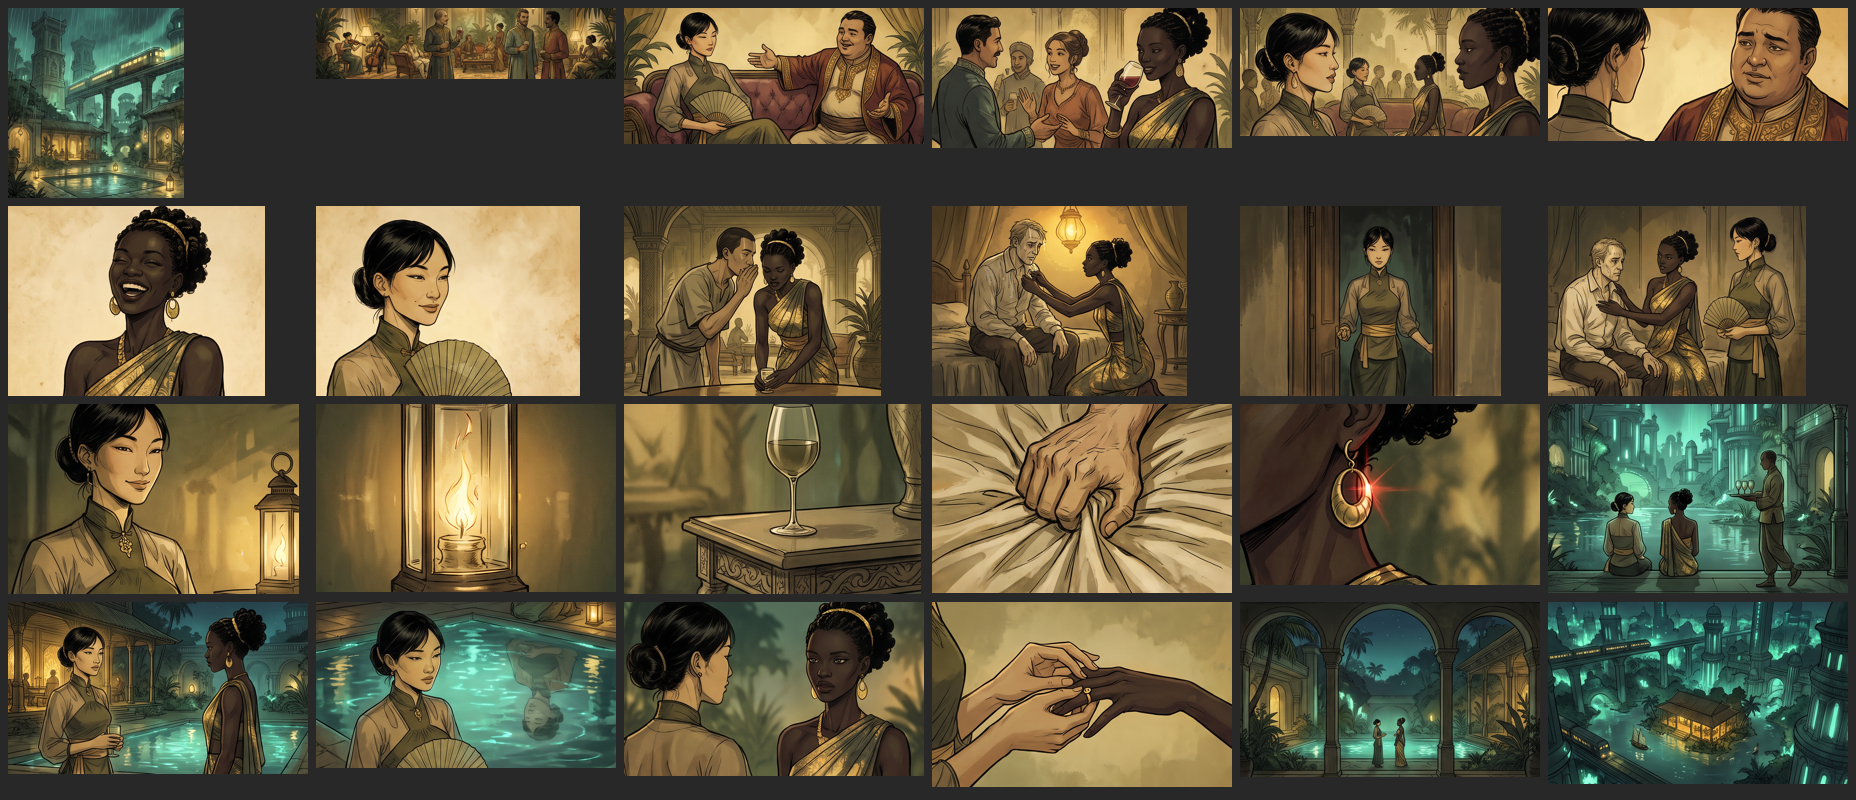
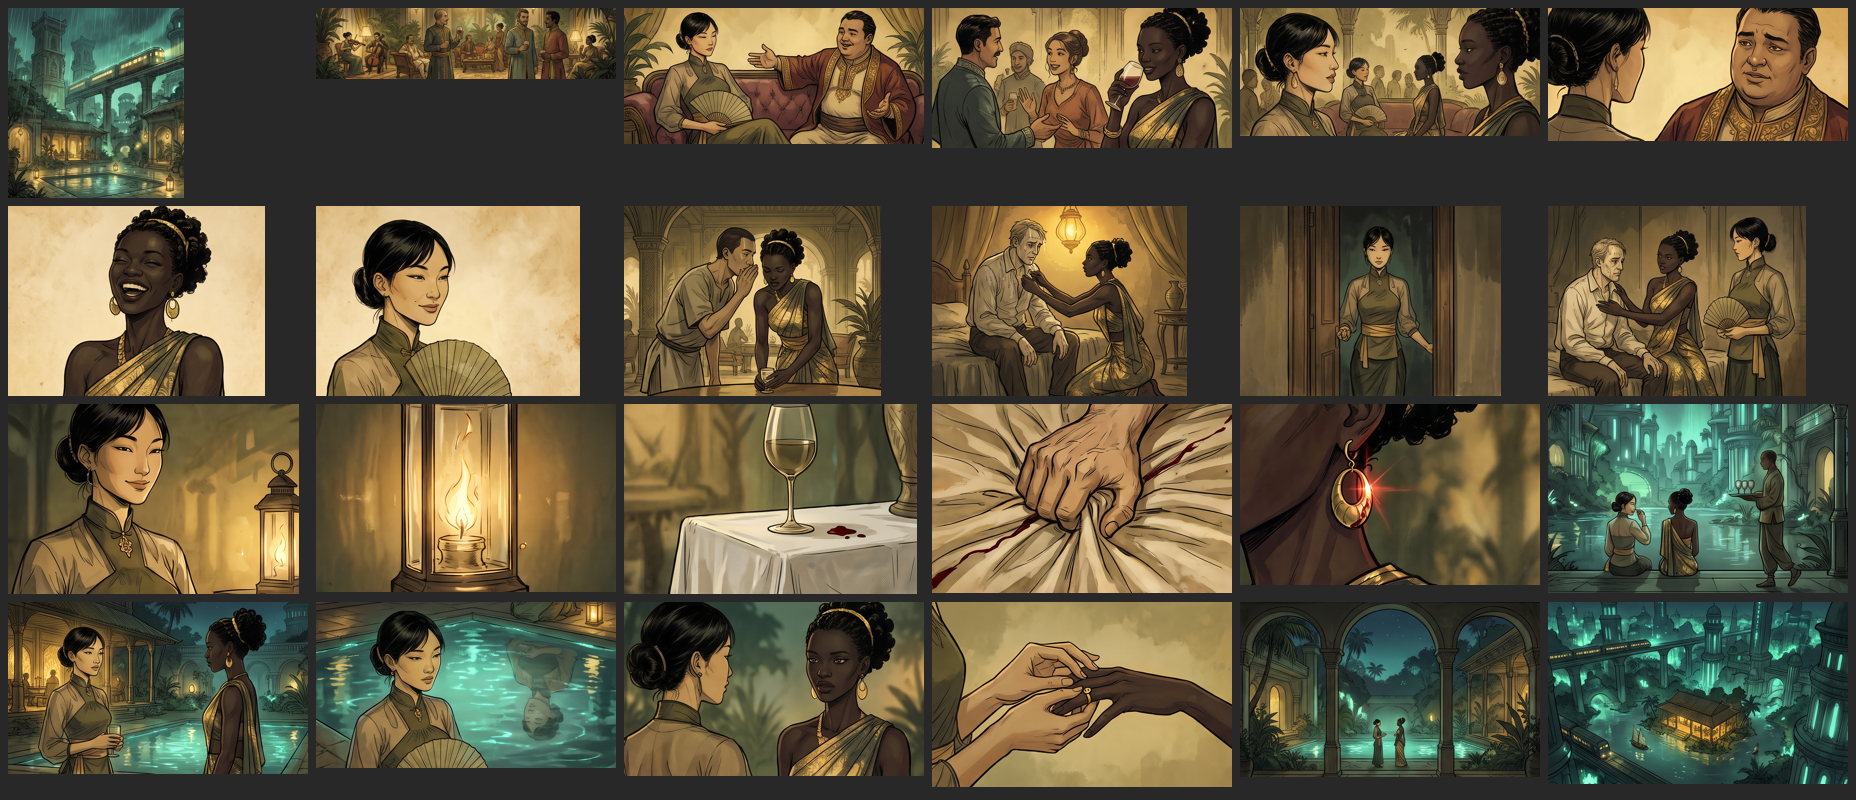
Phosphos Scene 1: blood version of page 3, skip nested crop fragments, start encode at crf 28
Claude-Session: https://claude.ai/code/session_018rDKHhytYC2ksbBEqFr1VE

diff --git a/phosphos/crop_scene1.py b/phosphos/crop_scene1.py
@@ -31,6 +31,9 @@ def blocks(a):
         y0, y1, x0, x1 = sl[0].start, sl[0].stop, sl[1].start, sl[1].stop
         if (x1 - x0) > W * 0.1 and (y1 - y0) > H * 0.1:
             boxes.append((x0, y0, x1, y1))
+    # drop fragments inside another panel (pale areas like a white tablecloth split a panel's mask)
+    inside = lambda a, b: a != b and a[0] >= b[0] - 8 and a[1] >= b[1] - 8 and a[2] <= b[2] + 8 and a[3] <= b[3] + 8
+    boxes = [a for a in boxes if not any(inside(a, b) for b in boxes)]
     boxes.sort(key=lambda b: (int(b[1] // (H / 6)), b[0]))
     return boxes
 

diff --git a/phosphos/render_scene1.py b/phosphos/render_scene1.py
@@ -334,7 +334,7 @@ if __name__ == "__main__":
             print(f"  {k}/{total}", flush=True)
     ff.stdin.close(); ff.wait()
     out = "renders/scene1_animatic.mp4"
-    crf = 24
+    crf = 28  # crf 24 and 26 both exceeded 30 MB on this scene
     while True:
         subprocess.run(["ffmpeg", "-y", "-loglevel", "error", "-i", master, "-vf", "hqdn3d=1.5:1.5:4:4",
                         "-c:v", "libx264", "-crf", str(crf), "-preset", "slow", "-pix_fmt", "yuv420p",
